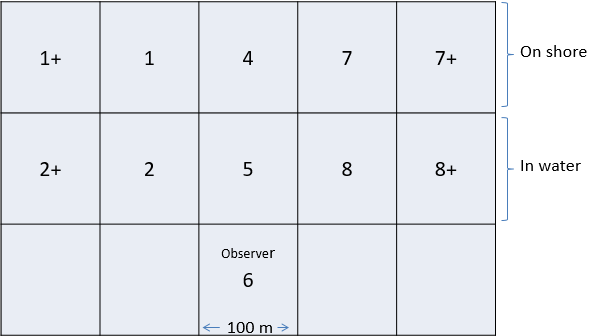
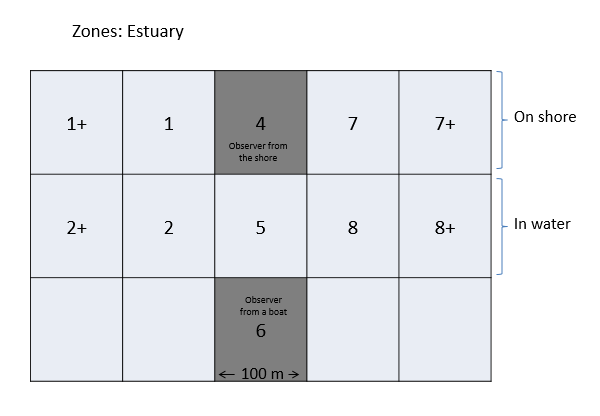
Help fields updated

diff --git a/BearWatch/www/templates/observationMode.html b/BearWatch/www/templates/observationMode.html
@@ -47,38 +47,18 @@
                 </div>
 
                 <div class="row item-divider expando-pane">
-                    <div class="col col-center"><h4>Focal and Scanning</h4></div>
+                    <div class="col col-center"><h4>Focal and Scan</h4></div>
                     <div class="col col-center text-right">
                         <a ng-class="{'button button-small button-icon icon ion-ios-plus-outline':!focalHelp, 'button button-small button-icon icon ion-ios-minus-outline':focalHelp}" ng-click="focalHelp=!focalHelp"></a>
                     </div>
                 </div>
                 <div ng-model="focalHelp" ng-show="focalHelp" class="container">
                     <div class="spacer spacer-10"></div>                    
-                    <h3>Focal:</h3>
-                    <p>One hour focal observation sessions begin with a summary of the activities occurring in each zone (refer to Excel datasheet file for focal samples). The observer will use comments to provide a brief overview of the selected focal bear(s) and human behaviours and note the mean distance between bears and people. Next, the observer will fill out the appropriate datasheet beginning with the general datasheet (Appendix I) followed by the focal and opportunistic datasheets (Appendix II). Bear behaviour recorded during focal observations includes:</p>
-                    <ul>
-                        <li>Bear species</li>
-                        <li>Sex and age class</li>
-                        <li>Identification or description of individual</li>
-                        <li>Bear location</li>
-                        <li>Bear activity: arrival time, departure time</li>
-                        <li>Number of bears present</li>
-                        <li>Location of bears present</li>
-                        <li>Activityofthefocalbear(s)(seebearbehaviourkeyforexplanations)</li>
-                    </ul>
-                    <p>Dependent upon the activity of the focal bear(s) the observer will then fill in the appropriate corresponding datasheets. For example, if the focal bear is fishing the fish capture datasheet will be filled in; however, if a jet boat is approaching then the human behaviour observation sampling datasheet would be filled in because it contains information on the distances (e.g., between bears and people) and behavioural response to stimuli (e.g., jet boats, aircrafts, vehicles).</p>
-                    <p><em>Potential interactions with humans and behavioural response to stimuli should always take precedent over gathering other data, such as fish captures!</em></p>
+                    <h3>Focal Sampling:</h3>
+                    <p>Observer focuses on 1 animal and records all behavioural observations during a specified time period – usually 1-4 hours. If the choices are a sow and cubs, always focus on the sow. This sampling technique allows the observer to concentrate on the behaviour of the chosen animal for the duration of the sampling period. Within the focal sampling session it is appropriate to scan at regular intervals and update the location and activities of other bears and humans.</p>
                  
-
-                    <h3>Scanning:</h3>
-                    <p>In order to reduce the overall observation recording time (currently recommended at 5 daylight hours plus nocturnal monitoring) scan sampling should occur within the focal observation on the 1⁄4 hour (i.e., 13:15, 13:20, and 13:45). A timer should be set to 15-minute intervals at which time the observer visually scans all designated zones. Scan sampling allows for a snapshot of what is happening within all zones during the focal sampling period. For example, scan samples are used to obtain relative measures of visitor and bear activity (i.e., count data such as the number of people within the focal observation (Olson et al. 1998, Chi et al. 1998). Data gathered during scan sampling includes:</p>
-                    <ul>
-                        <li>Visitor numbers by zone and east and west river banks o Bear numbers by zone and east and west river banks</li>
-                        <li>Classification of human activities</li>
-                        <li>Classification of bear activities</li>
-                        <li>Presence or absence of non-natural attractants</li>
-                        <li>Raw catch data of fish only – i.e., observed fish captures recorded (Nevis 2003) - (may also be recorded under focal sampling)</li>
-                    </ul>
+                    <h3>Scan Sampling:</h3>
+                    <p>Observer uses predetermined scanning periods alternating with resting periods to record the behaviour of all bears and humans in a more general way than the focal scan. This allows for a snapshot of behaviour at regular intervals. Common sampling intervals are for 2 minutes every 10 or 15 minutes. </p>
                     <div class="spacer spacer-10"></div>
                 </div>
 
@@ -91,12 +71,11 @@
                 <div ng-model="timerHelp" ng-show="timerHelp" class="container">
                     <div class="spacer spacer-10"></div>                    
                     <h3>Focal:</h3>
-                    <p>Set this timer for the desired session length.</p>
+                    <p>Set this timer for the scheduled session length. This will not prevent ending the session at an earlier time, but is important when following a study design with statistical parameters.</p>
                  
 
                     <h3>Scanning:</h3>
-                    <p>Set the desired session length and define the amount of time (in minutes) you plan to spend capturing data and resting.</p>
-                    <p>Example: scan sampling should occur within the focal observation on the 1⁄4 hour (i.e., 13:15, 13:20, and 13:45). A timer should be set to 15-minute intervals at which time the observer visually scans all designated zones.</p>
+                    <p>Set the scheduled overall session length. Set the number of minutes you are planning to scan and the minutes for resting. For instance, if you plan to scan for 3 minutes every 15 minutes you would set the active time to 3 and the resting timer to 12.</p>
                     <div class="spacer spacer-10"></div>
                 </div>
 

diff --git a/BearWatch/www/templates/startNewSession.html b/BearWatch/www/templates/startNewSession.html
@@ -53,19 +53,19 @@
                 </div>
                 <div ng-model="zoneHelp" ng-show="zoneHelp" class="container">
                     <div class="spacer spacer-10"></div>
-                    <p>Zonation Schemes – Before you begin collecting data define your surroundings in one of the available zonation schemes: river, estuary or terrestrial. The zones are approximately 100 m wide unless there are obvious breaks. Take the time to describe the zones well enough that someone else can use the same scheme from the same location. It is quite possible that all the zones in the scheme will not be visible so will not be part of your description. Save your description in a document outside of the application, for instance a WORD doc in Docs to Go.</p>
+                    <p>Zonation Schemes – Before you begin collecting data, define your surroundings in one of the available zonation schemes: river, estuary or terrestrial. Your location will the shaded zone that is most appropriate. The zones are approximately 100 m wide unless there are obvious breaks. Take the time to describe the zones well enough that someone else can use the same scheme from the same location. It is quite possible that all the zones in the scheme will not be visible so will not be part of your description. Save your description in a document outside of the application, for instance a WORD doc in Docs to Go.</p>
                     
-                    <h4 class="center">River:</h4>
-                    <p>If you are on the shores of a river you will be in either zone 6 or zone 4. This zone will extend about 50 m on either side of you or to an obvious break in the landscape. Find something approximately 100 m beyond that break to define the zones to your right and left. It will be useful if the zones across the river have approximately the same breaks. The depth of the zone will be as far as you can see. The river itself will be zones 2+, 2, 5, 8 and 8+.</p>
-                    <p>If you are in a boat, the zones are defined relative to your current location and will therefore be shifting continuously (unless you are anchored). You will not be able to pre-define the zones, so use approximate distances. In a serpentine river it will be difficult to see beyond the 3 central zones on each bank and in the river.</p>
+                    <h3>River:</h3>
+                    <p>If you are on the shores of a river you will be in either zone 6 or zone 4. Those on river right (right side when facing downstream) will be in zone 6. Those on river left will be in zone 4. This zone will extend about 50 m on either side of you or to an obvious break in the landscape. Find something approximately 100 m beyond that break to define the zones to your right and left. It will be useful if the zones across the river have approximately the same breaks. The depth of the zone will be as far as you can see. The river itself will be zones 2+, 2, 5, 8 and 8+.</p>
+                    <p>If you are in a boat you will be in zone 5. The zones are defined relative to your current location and will therefore be shifting continuously (unless you are anchored). You will not be able to pre-define the zones, so use approximate distances. In a serpentine river it will be difficult to see beyond the 3 central zones on each shore and in the river.</p>
 
-                    <h4 class="center">Estuary:</h4>
+                    <h3>Estuary:</h3>
                     <p>In an estuary situation you may be either in a boat or on the shore. If you are in a boat, you will be in zone 6. As the boat moves, the zones will change. Zone 5 will be the visible water directly in front of you and approximately 100 m wide. Zone 4 will be the shoreline adjacent to the water. To the right and left there will be paired water and shoreline zones of approximately 100 m. Beyond that zone everything you can see is in the final paired zones on either side.</p>
-                    <p>If you are on the shore you will be in zone 4. The zones are the same as those described for the boat, but they will be stable and therefore you will be able to describe them based on landscape breaks if that is helpful. </p>
+                    <p>If you are on the shore, you will be in zone 4. The zones are the same as those described for the boat, but they will be stable and therefore you will be able to describe them based on landscape breaks if that is helpful.</p>
 
-                    <h4 class="center">Terrestrial:</h4>
+                    <h3>Terrestrial:</h3>
                     <p>This schema is the most flexible. It is assumed that you are not moving during observations, but if you do, your zones will shift. You are always in zone 5. If you are mobile, try to use regular 100 m by 100 m zones. If you are stationary, you can define the zones in a way that makes sense to the landscape.</p>
-                    <p>Use <strong>Terrestrial</strong> in any situation that is not obviously covered by either <strong>River</strong> or <strong>Estuary</strong>. For instance, if you are on a platform in an estuary. Then, define the zones around you in the comments field. Which ones are not visible, which are tide flats, which are water, etc.</p>
+                    <p>This schema is the most flexible. Use it in any situation that is not obviously <strong>River</strong> or <strong>estuary</strong>. It is assumed that you are not moving during observations, but if you do, your zones will shift with you. You are always in zone 5. If you are mobile, try to use regular 100 m by 100 m zones. If you are stationary, you can define the zones in a way that makes sense to the landscape.</p>
                     <div class="spacer spacer-10"></div>
                 </div>
             </div>
